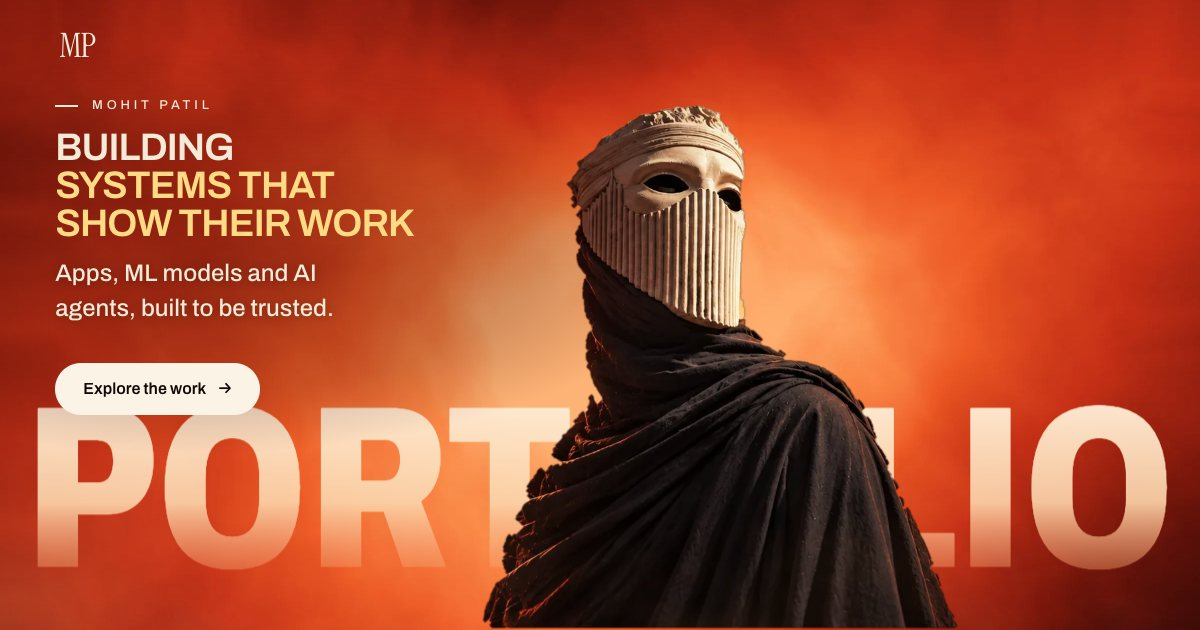
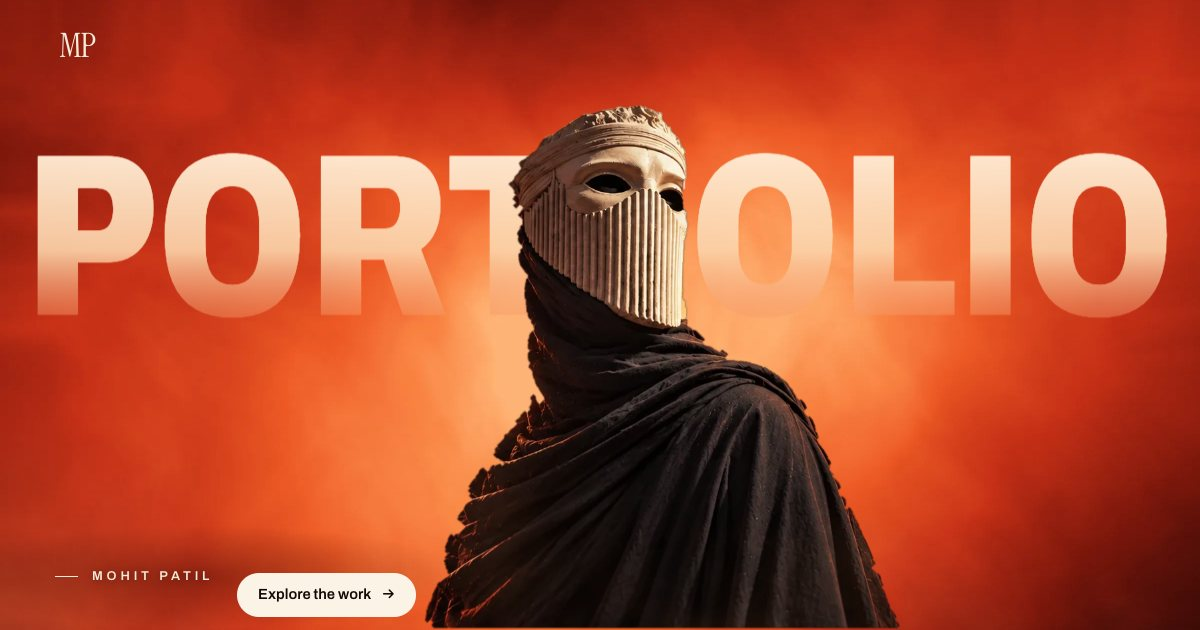
Strip the hero back to the figure and PORTFOLIO
Remove the headline, sub-line and focus tags. PORTFOLIO is lifted behind the
head; the name (now the h1) and Explore the work sit in the bottom-left
corner over a faint local shade. Tests check the name's contrast on the
rendered smoke; share image re-rendered.

diff --git a/src/styles/sections.css b/src/styles/sections.css
@@ -197,7 +197,8 @@
   position: absolute;
   left: 1.5vw;
   width: 97vw;
-  bottom: 8svh;
+  /* lifted so the head sits in front of the word */
+  top: 23svh;
   height: min(29svh, 19.5vw);
   overflow: visible;
   will-change: transform;
@@ -282,172 +283,57 @@
   pointer-events: none;
 }
 
-.hero__copy {
+.hero__corner {
   position: absolute;
   left: var(--gutter);
-  top: clamp(6rem, 14svh, 10rem);
-  width: min(41vw, 38rem);
-  display: grid;
-  justify-items: start;
-  gap: 1.2rem;
+  bottom: clamp(1.5rem, 5svh, 3rem);
+  display: flex;
+  flex-wrap: wrap;
+  align-items: center;
+  gap: 1rem 1.5rem;
 }
 
-/* a scrim only where the copy sits, so the small text clears AA on the smoke */
-.hero__copy::before {
+/* a faint shade only behind the corner, so the small name clears AA on the smoke */
+.hero__corner::before {
   content: '';
   position: absolute;
-  inset: -18% -30% -40% -40%;
+  inset: -90% -40% -90% -25%;
   z-index: -1;
-  /* centred on the text, and fading to nothing well inside its (taller) box, so it never leaves a visible edge */
-  background: radial-gradient(ellipse 84% 60% at 40% 45%, rgb(70 14 6 / 0.42), rgb(70 14 6 / 0.22) 50%, transparent 72%);
+  background: radial-gradient(ellipse 60% 55% at 40% 50%, rgb(60 10 5 / 0.38), transparent 75%);
   pointer-events: none;
 }
 
-.hero__eyebrow {
+.hero__name {
   display: flex;
   align-items: center;
   gap: 0.9rem;
+  font-family: var(--font-text);
   font-size: var(--t-label);
-  font-weight: 500;
+  font-weight: 600;
   letter-spacing: 0.3em;
   text-transform: uppercase;
   color: var(--c-cream);
+  text-shadow: 0 1px 10px rgb(40 6 3 / 0.55);
 }
 
-.hero__eyebrow::before {
+.hero__name::before {
   content: '';
   width: 1.4rem;
   height: 1.5px;
   background: currentColor;
 }
 
-.hero__title {
-  font-family: var(--font-display);
-  /* bounded by height too, so short widescreens keep the CTA clear of the giant word */
-  font-size: clamp(2.2rem, min(0.6rem + 3.15vw, 6.1svh), 4rem);
-  font-weight: 620;
-  white-space: nowrap;
-  font-stretch: 100%;
-  line-height: 0.98;
-  letter-spacing: -0.025em;
-  text-transform: uppercase;
-  color: var(--c-cream);
+.btn--small {
+  min-height: 44px;
+  padding: 0 1.3rem;
+  font-size: 0.92rem;
 }
 
-.hero__line {
-  display: block;
-}
-
-.hero__line.is-gold {
-  /* a lighter gold than the rest of the site, so it holds 3:1 on the bright smoke */
-  color: #ffdb85;
-}
-
-.hero__sub {
-  max-width: 24ch;
-  /* short line, set large (24px+) so it reads as display text on the smoke */
-  font-size: clamp(1.5rem, min(1rem + 1vw, 3.2svh), 1.85rem);
-  font-weight: 500;
-  line-height: 1.45;
-  color: var(--c-cream);
-  text-shadow: 0 1px 12px rgb(60 10 5 / 0.45);
-}
-
-.hero__copy .btn {
-  margin-top: 0.4rem;
-}
-
-.hero__tags {
-  position: absolute;
-  right: var(--gutter);
-  top: 34svh;
-  display: flex;
-  align-items: center;
-  font-size: var(--t-label);
-  font-weight: 500;
-  letter-spacing: 0.3em;
-  text-transform: uppercase;
-}
-
-.hero__tags li {
-  position: relative;
-  padding-block: 0.9rem;
-}
-
-.hero__tags li + li::before {
-  content: '';
-  display: inline-block;
-  width: 4px;
-  height: 4px;
-  margin: 0 1.4rem;
-  border-radius: 50%;
-  background: var(--c-gold);
-  vertical-align: middle;
-}
-
-.hero__tags li::after {
-  content: '';
-  position: absolute;
-  right: 0.3em;
-  bottom: 0;
-  width: calc(100% - 3.1rem);
-  height: 1.5px;
-  background: var(--c-cream);
-  transform: scaleX(0);
-  transform-origin: right;
-  transition: transform 700ms var(--ease-out);
-}
-
-.hero__tags li:first-child::after {
-  width: calc(100% - 0.3em);
-}
-
-.hero__tags li.is-on::after {
-  transform: scaleX(1);
-}
-
-/* short screens: tighter copy so the button keeps clear of the giant word */
-@media (max-height: 820px) and (min-width: 761px) {
-  .hero__copy { gap: 0.85rem; }
-  .hero__copy .btn { margin-top: 0; }
-}
-
-/* laptops: the figure steps right so the headline keeps clear of the mask */
-@media (max-width: 1440px) {
-  .hero { --fig-x: 60%; }
-}
-
-/* narrower desktops and tablets: the figure steps further right so it never sits under the copy */
-@media (max-width: 1180px) {
-  .hero { --fig-h: 74svh; --fig-x: 66%; }
-  .hero__copy { width: min(46vw, 30rem); }
-  .hero__title { font-size: clamp(2rem, 0.4rem + 3.4vw, 3rem); }
-  .hero__tags { display: none; }
-}
-
-/* phones and portrait screens: copy on top, figure rising from the bottom */
+/* phones and portrait screens: a larger figure, the word still behind the head */
 @media (max-width: 760px), (max-aspect-ratio: 4/5) {
-  .hero { --fig-h: 47svh; --fig-x: 52%; }
-  .hero__copy {
-    left: var(--gutter);
-    right: var(--gutter);
-    top: 5.8rem;
-    width: auto;
-    gap: 1rem;
-  }
-  .hero__title { font-size: clamp(1.9rem, 0.7rem + 6.2vw, 3.4rem); white-space: normal; }
-  .hero__sub { max-width: 22ch; font-size: 1.5rem; }
-  .hero__word { bottom: 17svh; height: 25vw; }
+  .hero { --fig-h: 66svh; --fig-x: 52%; }
+  .hero__word { top: 40svh; height: 25vw; }
   .hero__front { height: 36svh; bottom: -4svh; }
-  .hero__tags { display: none; }
-}
-
-@media (max-height: 640px) and (max-width: 760px) {
-  .hero__sub { display: none; }
-}
-
-@media (max-width: 380px) {
-  .hero { --fig-h: 43svh; }
 }
 
 /* ═════════════ Dive ═════════════ */

diff --git a/src/sections/Hero.tsx b/src/sections/Hero.tsx
@@ -1,5 +1,5 @@
-import { useEffect, useRef, useState } from 'react';
-import { hero, labels } from '../content/site';
+import { useEffect, useRef } from 'react';
+import { hero, labels, profile } from '../content/site';
 import { HeroReveal } from '../components/HeroReveal';
 import { reducedMotion } from '../lib/env';
 import { goTo, gsap } from '../lib/motion';
@@ -14,14 +14,6 @@ export function Hero() {
   const runway = useRef<HTMLDivElement>(null);
   const figure = useRef<HTMLDivElement>(null);
   const stage = useRef<HTMLDivElement>(null);
-  const [tag, setTag] = useState(hero.tags.length - 1);
-
-  // the underline under DESIGN · CODE · IDEAS walks across the three words
-  useEffect(() => {
-    if (reducedMotion()) return;
-    const id = window.setInterval(() => !document.hidden && setTag((t) => (t + 1) % hero.tags.length), 2600);
-    return () => window.clearInterval(id);
-  }, []);
 
   useEffect(() => {
     const el = runway.current;
@@ -32,15 +24,14 @@ export function Hero() {
       intro
         .from('.hero__figure', { yPercent: 8, opacity: 0, duration: 1.6 })
         .from('.hero__word', { yPercent: 30, opacity: 0, duration: 1.4 }, 0.15)
-        .from('.hero__copy > *', { y: 24, opacity: 0, duration: 1, stagger: 0.07 }, 0.3)
-        .from('.hero__tags', { opacity: 0, duration: 1 }, 0.6);
+        .from('.hero__corner > *', { y: 18, opacity: 0, duration: 1, stagger: 0.08 }, 0.5);
 
       const st = { trigger: el, start: 'top top', end: 'bottom bottom', scrub: true };
       gsap.to('.hero__bg', { scale: 1.08, yPercent: -4, ease: 'none', scrollTrigger: st });
       gsap.to('.hero__word', { yPercent: -22, ease: 'none', scrollTrigger: st });
       gsap.to('.hero__figure', { yPercent: -7, scale: 1.04, transformOrigin: '50% 100%', ease: 'none', scrollTrigger: st });
       gsap.to('.hero__front', { yPercent: -40, ease: 'none', scrollTrigger: st });
-      gsap.to('.hero__copy, .hero__tags', { y: () => (window.innerWidth < 761 ? -24 : -80), opacity: 0, ease: 'none', scrollTrigger: { ...st, end: 'center top', invalidateOnRefresh: true } });
+      gsap.to('.hero__corner', { y: -40, opacity: 0, ease: 'none', scrollTrigger: { ...st, end: 'center top' } });
       gsap.to('.hero__shade', { opacity: 0.6, ease: 'none', scrollTrigger: st });
     }, el);
     return () => ctx.revert();
@@ -76,24 +67,12 @@ export function Hero() {
           <HeroReveal stage={stage} figure={figure} />
           <div className="hero__shade" aria-hidden="true" />
 
-          <div className="hero__copy">
-            <p className="hero__eyebrow">{hero.eyebrow}</p>
-            <h1 id="hero-title" className="hero__title">
-              {hero.title.map((line, i) => (
-                <span key={line} className={`hero__line${i === 0 ? '' : ' is-gold'}`}>{line}</span>
-              ))}
-            </h1>
-            <p className="hero__sub">{hero.sub}</p>
-            <a className="btn btn--light" href="#work" onClick={(e) => { e.preventDefault(); goTo('#work'); }}>
+          <div className="hero__corner">
+            <h1 id="hero-title" className="hero__name">{profile.name}</h1>
+            <a className="btn btn--light btn--small" href="#work" onClick={(e) => { e.preventDefault(); goTo('#work'); }}>
               {labels.work} <span aria-hidden="true" className="btn__arrow">→</span>
             </a>
           </div>
-
-          <ul className="hero__tags" aria-label="Focus">
-            {hero.tags.map((t, i) => (
-              <li key={t} className={i === tag ? 'is-on' : ''}>{t}</li>
-            ))}
-          </ul>
         </div>
       </section>
     </div>

diff --git a/index.html b/index.html
@@ -18,7 +18,7 @@
     <meta property="og:description" content="Full-stack products, machine learning systems and AI agents, built to be dependable and to explain the decisions they make." />
     <meta property="og:image:width" content="1200" />
     <meta property="og:image:height" content="630" />
-    <meta property="og:image:alt" content="Mohit Patil. Building systems that show their work: a masked figure against orange smoke." />
+    <meta property="og:image:alt" content="Mohit Patil: a masked figure against orange smoke, with the word PORTFOLIO behind his head." />
     <meta name="twitter:card" content="summary_large_image" />
     <meta name="twitter:creator" content="@MohitPatil758" />
     <meta name="twitter:title" content="Mohit Patil: building systems that show their work" />

diff --git a/src/content/site.ts b/src/content/site.ts
@@ -37,13 +37,8 @@ export const navLinks = [
 ] as const;
 
 export const hero = {
-  eyebrow: 'Mohit Patil',
-  /** First line in cream, the rest in gold, as in the supplied hero design. */
-  title: ['Building', 'systems that', 'show their work'],
-  sub: 'Apps, ML models and AI agents, built to be trusted.',
-  /** The giant word set behind the figure. */
+  /** The only words on the hero: the giant backdrop behind the head, and the name in the corner. */
   backdrop: 'PORTFOLIO',
-  tags: ['Models', 'Systems', 'Interfaces'],
   figureAlt: 'A figure in a carved, ribbed white mask and a dark draped cloak, lit from behind against orange smoke.',
 };
 

diff --git a/README.md b/README.md
@@ -3,7 +3,7 @@
 A single-page portfolio :
 
 1. **Intro**: the MP monogram writes itself, then the curtain lifts (once per session, skippable, never with reduced motion).
-2. **Hero**: the supplied design, built as independent planes (smoke, the giant word PORTFOLIO, figure, front smoke, copy). Hovering the figure (or pressing on touch) opens an organic, glowing-edged window in which the figure appears re-dressed in blue and gold.
+2. **Hero**: the figure alone on the smoke, the giant word PORTFOLIO behind his head, and only the name and one button in the corner. Hovering the figure (or pressing on touch) opens an organic, glowing-edged window in which the figure appears re-dressed in blue and gold.
 3. **Dive**: a fire-red panel rises over the hero with LOOK CLOSER cut out of it. Scroll zooms through the stem of the L into a particle scene, where *from* HELLO, WORLD! TO PRODUCTION. lands.
 4. **About**: "From data to interface, I build ___" over a glowing emblem, a curve drawn by scroll out of the I, the areas I work on (with real screenshots on hover) and three principles.
 5. **Featured work**: full-width and two-up slides built from real project screens; each opens a case-study dialog.
